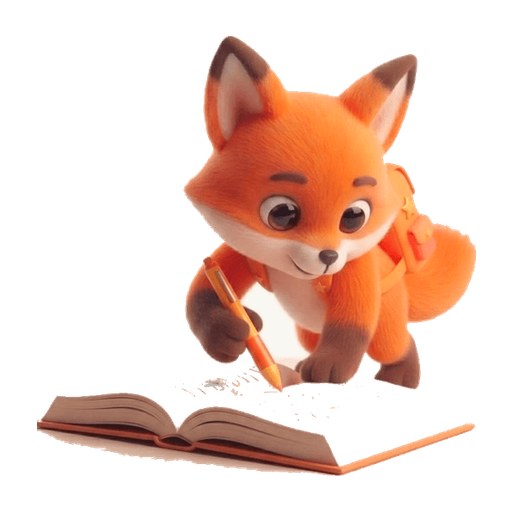
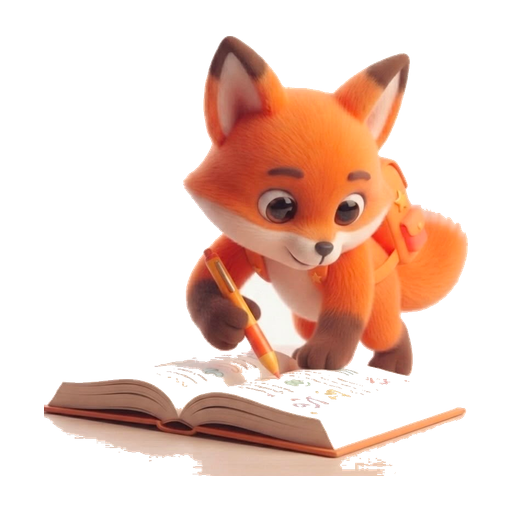
Learning Zefi: kitab tam bərpa edildi + login mascot böyüdüldü
- kitabın üst səhifəsi ilk fon-silmədə (ağ=fon) yeyilmişdi; orijinaldan aşağı tolerantlıq + defringe ilə yenidən kəsildi (kremli səhifələr qalır)
- login mascot 230 → 300 (daha görkəmli)
- SW keş v49

diff --git a/app/login/page.tsx b/app/login/page.tsx
@@ -62,7 +62,7 @@ export default function LoginPage() {
 
         <div>
           <div className="mb-6 flex justify-center">
-            <ZefiMascot emotion="learning" size={230} />
+            <ZefiMascot emotion="learning" size={300} />
           </div>
           <h2 className="max-w-sm text-4xl font-extrabold leading-tight">
             {t("auth.login.brandHeading")}

diff --git a/public/sw.js b/public/sw.js
@@ -5,7 +5,7 @@
 //   - Naviqasiya (səhifə): əvvəlcə şəbəkə, offline olsa keşdən/ana səhifədən.
 //   - Statik fayllar (_next/static, şəkil, şrift): stale-while-revalidate.
 
-const CACHE = "bilik-yolu-v48";
+const CACHE = "bilik-yolu-v49";
 const OFFLINE_URL = "/";
 
 // Şəbəkə çatmayanda göstəriləcək minimal offline HTML.
